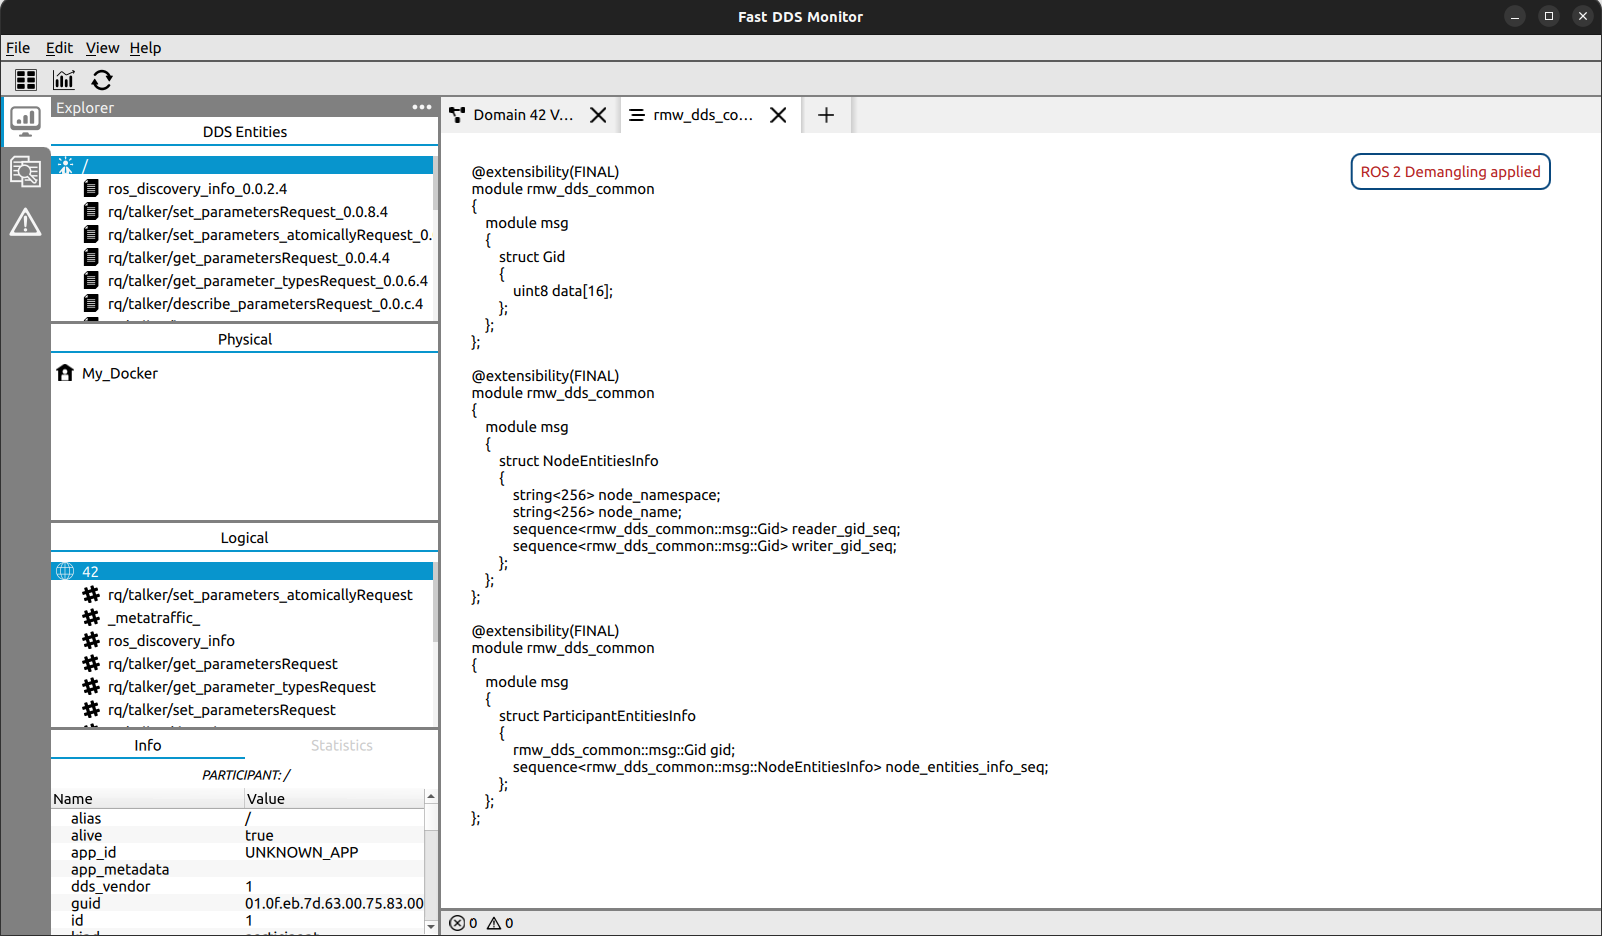
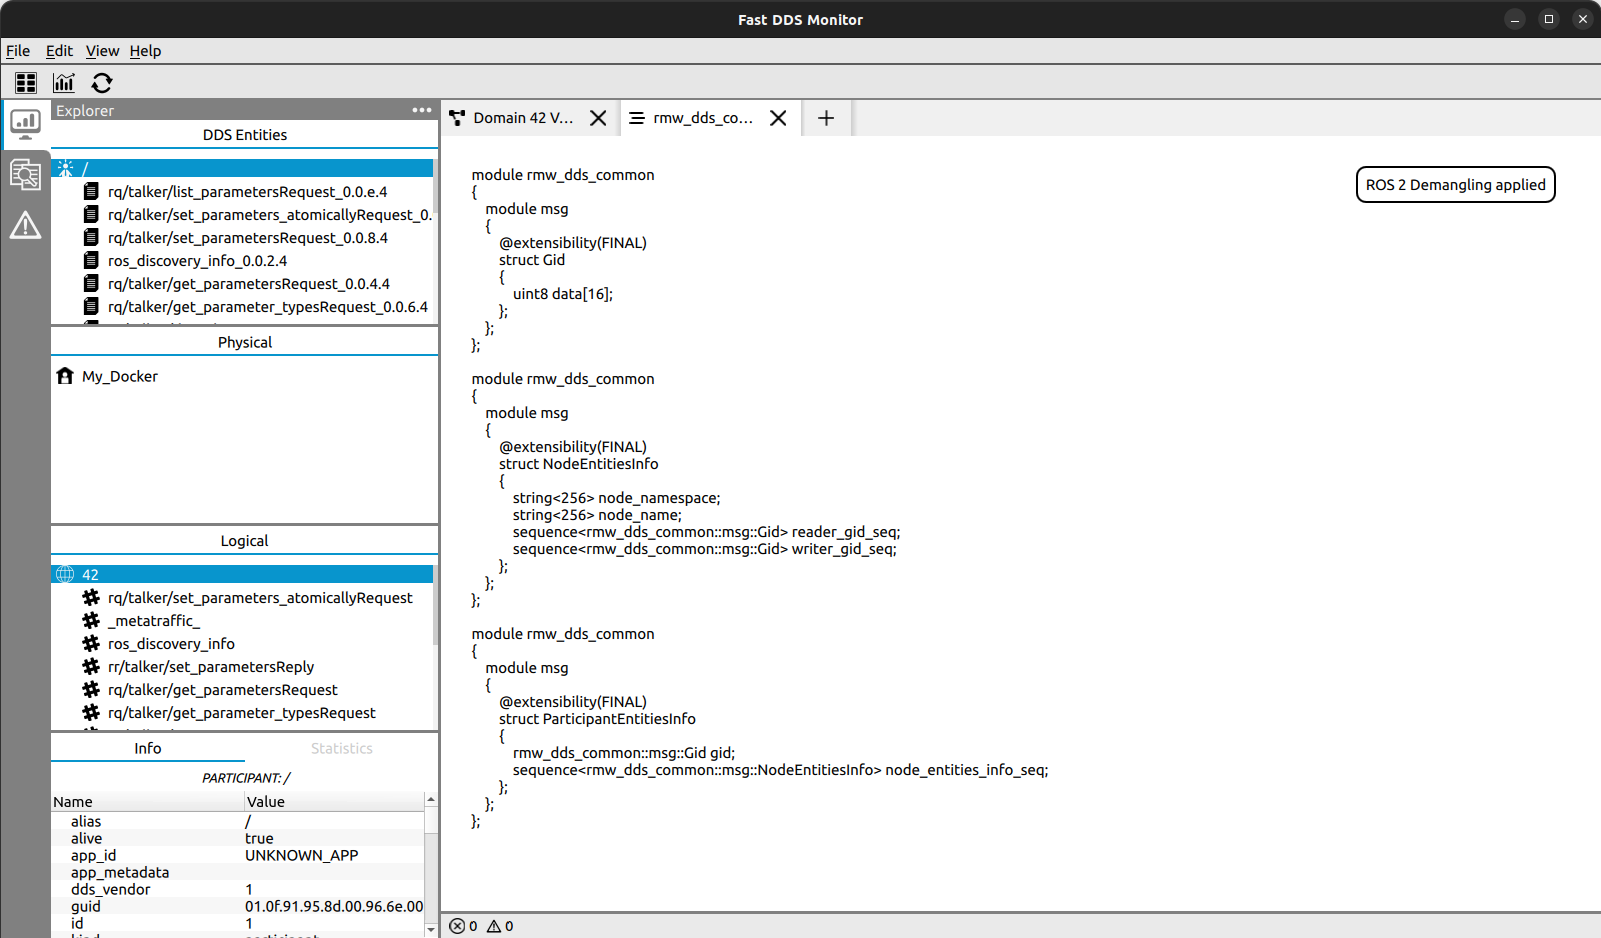
Refs 22865: improved tutorial imgs

Changed region(s): [[0.0, 0.0, 1.0, 1.0], [0.8432, 0.1549, 0.9681, 0.2169], [0.2498, 0.8365, 0.2811, 0.8675]]

diff --git a/docs/rst/tutorials/core/deployment/dds2vulcanexus/dds2vulcanexus_ros2idl.rst b/docs/rst/tutorials/core/deployment/dds2vulcanexus/dds2vulcanexus_ros2idl.rst
@@ -165,8 +165,8 @@ Now, we have the full code we need to create the datareaders and datawriters.
 Launching a FastDDS datareader
 ------------------------------
 
-For the purpose of this tutorial, we will only be creating a single datareader to connect with the ROS 2 talker. The code for the datareader was generated in the previous step, and requires only a single modification.
-By opening the file `ParticipantEntitiesInfomain.cxx`, we need to perform a small modification to the code. The line :code:`int domain_id = 0;` must be replaced with :code:`int domain_id = 42;`, so our participants are created in the same domain as the ROS 2 talker.
+For the purpose of this tutorial, we will only be creating a single datareader to connect with the ROS 2 talker. The code for the datareader was generated in the previous step, and requires only a few simple modifications.
+Opening the file `ParticipantEntitiesInfomain.cxx`, we need to perform a small modification to the code. The line :code:`int domain_id = 0;` must be replaced with :code:`int domain_id = 42;`, so our participants are created in the same domain as the ROS 2 talker.
 Save and exit by pressing :code:`Ctrl+X`, then :code:`Y` and :code:`Enter`.
 
 Additionally, we need to ensure that the datareader joins the same topic as the ROS 2 talker, so we need to perform an additional modification. Open the file `ParticipantEntitiesInfoSubscriberApp.cxx`, and replace the line :code:`topic_ = participant_->create_topic("ParticipantEntitiesInfoTopic", type_.get_type_name(), topic_qos);`
